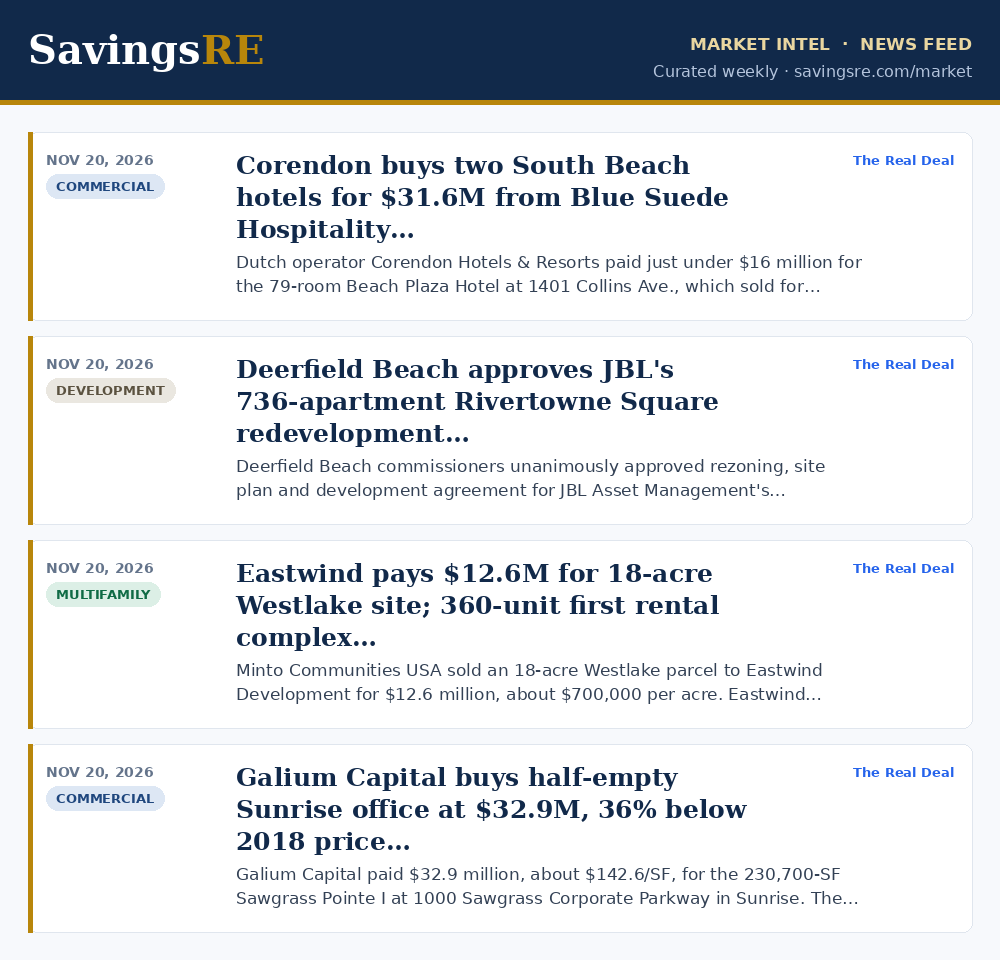
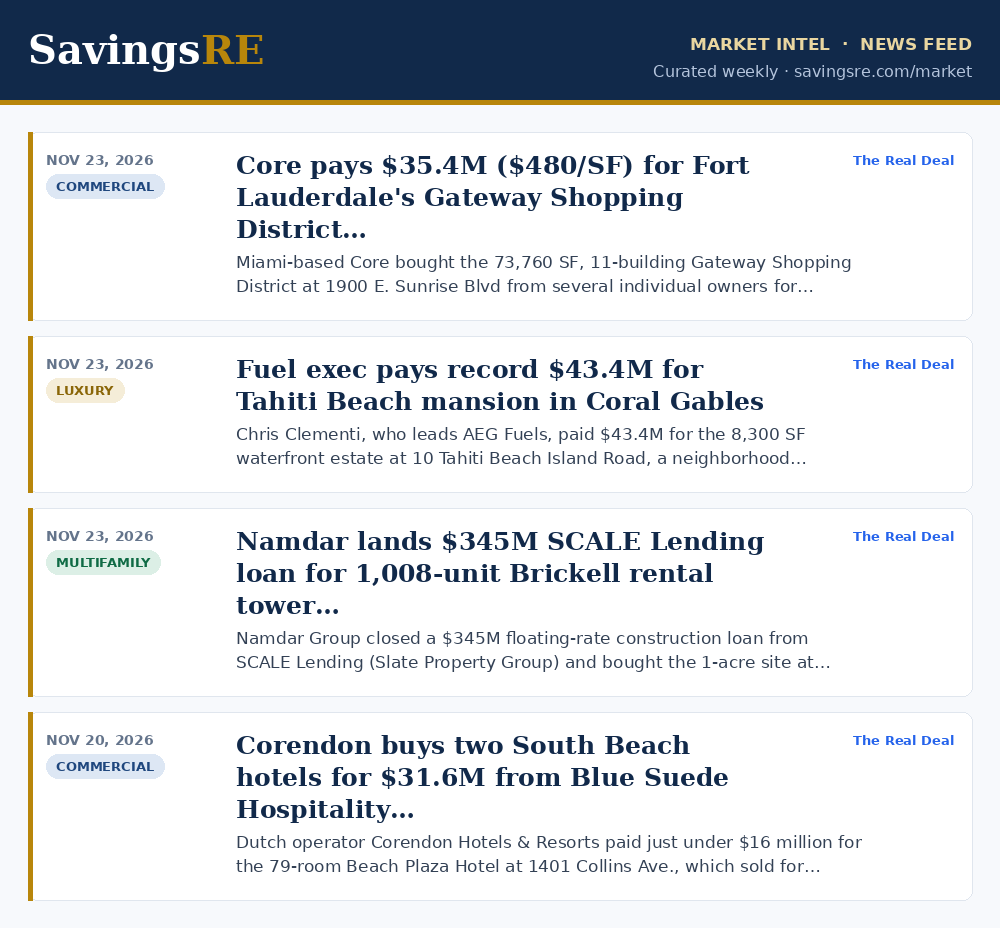
Market Intel refresh 2026-11-23 (scheduled)

diff --git a/market/index.html b/market/index.html
@@ -247,7 +247,7 @@ height="0" width="0" style="display:none;visibility:hidden"></iframe></noscript>
   <div class="eyebrow">South Florida &middot; Luxury &amp; Commercial &middot; Curated Weekly</div>
   <h1>Market <em>Intel</em></h1>
   <p>Live market data, mortgage &amp; insurance trends, and curated news across South Florida and statewide luxury and commercial real estate.</p>
-  <div class="updated"><span class="dot"></span><span id="updatedLine">Updated November 21, 2026</span></div>
+  <div class="updated"><span class="dot"></span><span id="updatedLine">Updated November 23, 2026</span></div>
 </header>
 
 <div class="wrap">
@@ -277,7 +277,7 @@ height="0" width="0" style="display:none;visibility:hidden"></iframe></noscript>
   </div>
 
   <!-- RATES + INSURANCE -->
-  <div class="sec-head" style="margin-top:8px">Mortgage Rates <span class="tag">as of <span id="ratesDate">Nov 20, 2026</span></span></div>
+  <div class="sec-head" style="margin-top:8px">Mortgage Rates <span class="tag">as of <span id="ratesDate">Nov 23, 2026</span></span></div>
   <div class="cards" id="ratesCards"></div>
 
   <div class="sec-head" style="margin-top:14px">FL Coastal Insurance <span class="tag" id="insTrend">Improving</span></div>
@@ -337,18 +337,18 @@ height="0" width="0" style="display:none;visibility:hidden"></iframe></noscript>
 
   /* ===== EMBEDDED DATA (mirror of market_data.json + news_data.json) ===== */
   var MARKET = {
-    meta:{updated:"2026-11-21", period:"Single-family & condo county medians — September 2026 (MIAMI REALTORS + RWorld county reports; Florida Realtors statewide)."},
+    meta:{updated:"2026-11-23", period:"Single-family & condo county medians — October 2026 (MIAMI REALTORS + RWorld county reports; Florida Realtors statewide)."},
     residential:{
       columns:["Area","SF Median","SF YoY","Condo Median","Closed Sales YoY","Homes for Sale YoY"],
       rows:[
-        {area:"Miami-Dade County",sfMedian:"$692,000",sfYoy:"+4.1%",condoMedian:"$417,090",closedYoy:"-4.7%",homesYoy:"-16.6%"},
-        {area:"Broward County",sfMedian:"$641,500",sfYoy:"+2.4%",condoMedian:"$235,000",closedYoy:"-7.1%",homesYoy:"-18.1%"},
-        {area:"Palm Beach County",sfMedian:"$656,000",sfYoy:"+6.7%",condoMedian:"$310,000",closedYoy:"-2.7%",homesYoy:"-19.6%"},
-        {area:"Martin County",sfMedian:"$600,000",sfYoy:"+5.3%",condoMedian:"$237,500",closedYoy:"-4.0%",homesYoy:"-18.1%"},
-        {area:"St. Lucie County",sfMedian:"$395,000",sfYoy:"-1.3%",condoMedian:"$337,500",closedYoy:"-8.7%",homesYoy:"-1.3%"},
-        {area:"Florida (statewide)",sfMedian:"$415,000",sfYoy:"+1.2%",condoMedian:"$293,500",closedYoy:"-3.5%",homesYoy:"-9.8%"}
+        {area:"Miami-Dade County",sfMedian:"$706,000",sfYoy:"+3.5%",condoMedian:"$397,500",closedYoy:"-11.8%",homesYoy:"-13.8%"},
+        {area:"Broward County",sfMedian:"$610,000",sfYoy:"-0.2%",condoMedian:"$240,300",closedYoy:"-14.0%",homesYoy:"-16.7%"},
+        {area:"Palm Beach County",sfMedian:"$682,500",sfYoy:"+6.1%",condoMedian:"$300,000",closedYoy:"-13.8%",homesYoy:"-16.8%"},
+        {area:"Martin County",sfMedian:"$628,000",sfYoy:"+4.7%",condoMedian:"$235,000",closedYoy:"-17.7%",homesYoy:"-11.9%"},
+        {area:"St. Lucie County",sfMedian:"$399,950",sfYoy:"+2.6%",condoMedian:"$320,000",closedYoy:"-19.5%",homesYoy:"+0.4%"},
+        {area:"Florida (statewide)",sfMedian:"$420,000",sfYoy:"+2.2%",condoMedian:"$290,000",closedYoy:"-10.1%",homesYoy:"-7.4%"}
       ],
-      note:"September 2026. County rows: MIAMI REALTORS + RWorld September 2026 county statistics (released Oct 16, 2026; MIAMI MLS + BeachesMLS). Statewide row: Florida Realtors Monthly Market Summary, September 2026. SF Median = single-family median sale price; Condo Median = townhouse/condo median. Closed Sales & Homes for Sale YoY are single-family, year-over-year."
+      note:"October 2026. County rows: MIAMI REALTORS + RWorld October 2026 county statistics (released Nov 16, 2026; MIAMI MLS + BeachesMLS). Statewide row: Florida Realtors Monthly Market Summary, October 2026. SF Median = single-family median sale price; Condo Median = townhouse/condo median. Closed Sales & Homes for Sale YoY are single-family, year-over-year."
     },
     luxury:{cards:[
       {label:"$1M+ Sales, Q1 2026 (SE FL)",value:"+22%",sub:"vs Q1 2025"},
@@ -370,9 +370,9 @@ height="0" width="0" style="display:none;visibility:hidden"></iframe></noscript>
         "West Palm Beach office pipeline ~3.3M SF (~700K SF under construction)."
       ]
     },
-    rates:{date:"Nov 20, 2026",cards:[
-      {label:"30-Yr Fixed (conforming)",value:"7.33%",sub:"daily lender avg Nov 20; Freddie Mac PMMS 7.28% for the wk of 11/19, up from 7.11%"},
-      {label:"30-Yr Jumbo",value:"7.44%",sub:"daily jumbo avg Nov 20"},
+    rates:{date:"Nov 23, 2026",cards:[
+      {label:"30-Yr Fixed (conforming)",value:"7.34%",sub:"daily lender avg Nov 23; Freddie Mac PMMS 7.28% for the wk of 11/19, up from 7.11%"},
+      {label:"30-Yr Jumbo",value:"7.45%",sub:"daily jumbo avg Nov 23"},
       {label:"Jumbo loan threshold",value:"$832,750",sub:"2026 FHFA baseline (most areas)"}
     ]},
     insurance:{trend:"Improving / stabilizing",cards:[
@@ -383,6 +383,9 @@ height="0" width="0" style="display:none;visibility:hidden"></iframe></noscript>
     ],note:"Coastal properties, older homes, and condos may see less relief than standard inland single-family homes."}
   };
   var NEWS = [
+    {id:259,date:"2026-11-23",title:"Core pays $35.4M ($480/SF) for Fort Lauderdale's Gateway Shopping District",summary:"Miami-based Core bought the 73,760 SF, 11-building Gateway Shopping District at 1900 E. Sunrise Blvd from several individual owners for $35.4M, about $480/SF. The center is nearly 90% occupied. Cushman & Wakefield data show Broward retail investment sales reached $422.6M in Q3, $832M year to date.",source:"The Real Deal",sourceUrl:"https://therealdeal.com/miami/2026/11/23/core-buys-fort-lauderdale-gateway-shopping-district-for-35m/",category:"Commercial/CRE",importance:"medium"},
+    {id:258,date:"2026-11-23",title:"Fuel exec pays record $43.4M for Tahiti Beach mansion in Coral Gables",summary:"Chris Clementi, who leads AEG Fuels, paid $43.4M for the 8,300 SF waterfront estate at 10 Tahiti Beach Island Road, a neighborhood record. Neil Flanzraich bought it in 2000 for $3.5M. No mortgage was recorded, so the deal was likely all cash. The prior Tahiti Beach record was $32M, paid earlier this year for 12 Tahiti Beach Island Road.",source:"The Real Deal",sourceUrl:"https://therealdeal.com/miami/2026/11/23/fuel-supplier-ceo-buys-tahiti-beach-mansion-in-coral-gables/",category:"Luxury",importance:"high"},
+    {id:257,date:"2026-11-23",title:"Namdar lands $345M SCALE Lending loan for 1,008-unit Brickell rental tower",summary:"Namdar Group closed a $345M floating-rate construction loan from SCALE Lending (Slate Property Group) and bought the 1-acre site at 250 and 296 SW 7th St for $40M. The 42-story tower will have 1,008 units, about 405 below-market under the Live Local Act, plus 2,600 SF of retail. Construction starts next year with completion expected in late 2028 or early 2029. Walker & Dunlop arranged the 30-month loan.",source:"The Real Deal",sourceUrl:"https://therealdeal.com/miami/2026/11/23/namdar-group-nabs-345m-construction-loan-for-miami-tower/",category:"Multifamily",importance:"high"},
     {id:256,date:"2026-11-20",title:"Corendon buys two South Beach hotels for $31.6M from Blue Suede Hospitality",summary:"Dutch operator Corendon Hotels & Resorts paid just under $16 million for the 79-room Beach Plaza Hotel at 1401 Collins Ave., which sold for $26.5 million in 2023. It also paid $15.6 million for the 75-key former Blue Moon Hotel at 944 Collins Ave., which sold for $16.6 million in 2024. Both sellers took losses.",source:"The Real Deal",sourceUrl:"https://therealdeal.com/data/miami/2026/corendon-hotels-resorts-buys-miami-hotels-for-31-6m/",category:"Commercial/CRE",importance:"medium"},
     {id:255,date:"2026-11-20",title:"Deerfield Beach approves JBL's 736-apartment Rivertowne Square redevelopment",summary:"Deerfield Beach commissioners unanimously approved rezoning, site plan and development agreement for JBL Asset Management's redevelopment of the 13-acre Rivertowne Square. Two eight-story buildings would add 736 apartments, 106 restricted to households up to 120% of AMI, plus 24,000 SF of ground-floor retail. JBL bought the center for $18.7 million in 2022; phase one starts next year and finishes in 2029.",source:"The Real Deal",sourceUrl:"https://therealdeal.com/miami/2026/11/20/jbl-approved-for-deerfield-beach-shopping-center-redo/",category:"Development",importance:"medium"},
     {id:254,date:"2026-11-20",title:"Eastwind pays $12.6M for 18-acre Westlake site; 360-unit first rental complex",summary:"Minto Communities USA sold an 18-acre Westlake parcel to Eastwind Development for $12.6 million, about $700,000 per acre. Eastwind plans Avery at Westlake, a 360-unit community in eight buildings, approved by the city council Aug. 4. It would be the first apartment complex in the Palm Beach County city.",source:"The Real Deal",sourceUrl:"https://therealdeal.com/miami/2026/11/20/minto-sells-westlake-apartment-site-to-eastwind-development/",category:"Multifamily",importance:"medium"},
@@ -395,10 +398,7 @@ height="0" width="0" style="display:none;visibility:hidden"></iframe></noscript>
     {id:247,date:"2026-11-18",title:"Two Campbell's-linked mansions list for $282M: La Gorce Island at $170M, Wellington farm $112M",summary:"Betsy Sherman listed her 18,200-SF La Gorce Island mansion at 30 La Gorce Circle for $170M, about $9,330 per square foot; the Shermans paid $17M for the 1.2-acre site in 2006. Separately, an entity tied to the late Campbell's heiress Mary Alice Malone is asking $112M for a 100-acre Wellington equestrian farm.",source:"The Real Deal",sourceUrl:"https://therealdeal.com/miami/2026/11/18/south-florida-mansions-tied-to-campbells-soup-listed/",category:"Luxury",importance:"high"},
     {id:246,date:"2026-11-18",title:"Ram Realty sells Shops at Botanica to Agree Realty for $25.6M, $458/SF",summary:"An affiliate of Ram Realty Advisors sold the recently completed 55,870-SF Shops at Botanica retail center at 15301 SW 127th Ave near ZooMiami to a subsidiary of Agree Realty for $25.6M, or $458 per square foot. Tenants include HomeSense and Marshalls. Ram began construction on the 5.4-acre site in 2024 with $15M in financing.",source:"The Real Deal",sourceUrl:"https://therealdeal.com/miami/2026/11/18/agree-realty-buys-shops-at-botanica-from-ram-realty/",category:"Commercial/CRE",importance:"medium"},
     {id:245,date:"2026-11-17",title:"Palm Beach house tied to ex-CIA officer's fraud sells for $24M, $3,300/SF",summary:"The 7,260-SF house at 236 Via Las Brisas in Palm Beach's Phipps Estates sold for $24M, or $3,300 per square foot. An entity tied to David Rush paid $21.9M in December 2025. Rush pleaded guilty in October to a $193M fraud on the federal government; it is the first of the properties tied to the scheme to find a buyer.",source:"The Real Deal",sourceUrl:"https://therealdeal.com/miami/2026/11/17/palm-beach-house-in-cia-agents-scam-sells-for-24-million/",category:"Luxury",importance:"medium"},
-    {id:244,date:"2026-11-17",title:"PMG, Greybrook land $285M refi for 563-unit Society Las Olas Phase II",summary:"Property Markets Group and Greybrook Realty Partners secured $285M from Benefit Street Partners for the second tower of Society Las Olas at 140 SW Second St in Fort Lauderdale, arranged by Walker & Dunlop. It replaces a $226M construction loan and equals about $506,000 per unit. The 42-story tower has 563 units.",source:"The Real Deal",sourceUrl:"https://therealdeal.com/miami/2026/11/17/pmg-greybrook-nab-285-million-refi-for-florida-apartments/",category:"Multifamily",importance:"high"},
-    {id:243,date:"2026-11-17",title:"TPG sells 150-room AC Hotel Miami Beach to Dynamic City Capital for $81M",summary:"TPG Real Estate sold the 150-room, 160,460-SF AC Hotel Miami Beach at 2912 Collins Avenue to Utah-based Dynamic City Capital for $81 million, or about $540,000 per room, per records; the deed excludes branding and FF&E value. TPG paid $45.3 million in July 2021. The trade follows Gencom and White Bridge's $300 million InterContinental Miami purchase last month.",source:"The Real Deal",sourceUrl:"https://therealdeal.com/miami/2026/11/17/tpg-sells-ac-hotel-miami-beach-to-dynamic-city-capital/",category:"Commercial/CRE",importance:"high"},
-    {id:242,date:"2026-11-16",title:"South Florida October home and condo sales fall as rates and condo financing rules bite",summary:"October closings fell year over year: Miami-Dade down 11% to 1,890, Broward down 13% to 1,750 and Palm Beach down about 8% to 1,852. Median single-family prices were $706,000 in Miami-Dade (+3.5%), $610,000 in Broward (-0.2%) and $682,500 in Palm Beach (+6%). Only 21 of nearly 2,400 tri-county condo buildings are FHA-approved.",source:"The Real Deal",sourceUrl:"https://therealdeal.com/miami/2026/11/16/south-florida-home-sales-drop-in-october-2026/",category:"Market Data",importance:"high"},
-    {id:241,date:"2026-11-16",title:"Nearly vacant Lincoln Place leasehold in South Beach under contract for $57.8M",summary:"An entity tied to Alfred Equities' Abraham Schwartz and the May family trusts is under contract for $57.8 million to buy the leasehold of Lincoln Place, 1601 Washington Avenue, from Granite Point Mortgage Trust. The 2022 building has 106,700 SF of office, 28,500 SF of retail and a 493-space garage, with nearly 91,000 SF available. Miami Beach holds a right of first refusal; commissioners vote Wednesday.",source:"The Real Deal",sourceUrl:"https://therealdeal.com/miami/2026/11/16/nearly-empty-south-beach-offices-selling-for-58-million/",category:"Commercial/CRE",importance:"medium"}
+    {id:244,date:"2026-11-17",title:"PMG, Greybrook land $285M refi for 563-unit Society Las Olas Phase II",summary:"Property Markets Group and Greybrook Realty Partners secured $285M from Benefit Street Partners for the second tower of Society Las Olas at 140 SW Second St in Fort Lauderdale, arranged by Walker & Dunlop. It replaces a $226M construction loan and equals about $506,000 per unit. The 42-story tower has 563 units.",source:"The Real Deal",sourceUrl:"https://therealdeal.com/miami/2026/11/17/pmg-greybrook-nab-285-million-refi-for-florida-apartments/",category:"Multifamily",importance:"high"}
   ];
 
   /* ===== HELPERS ===== */
